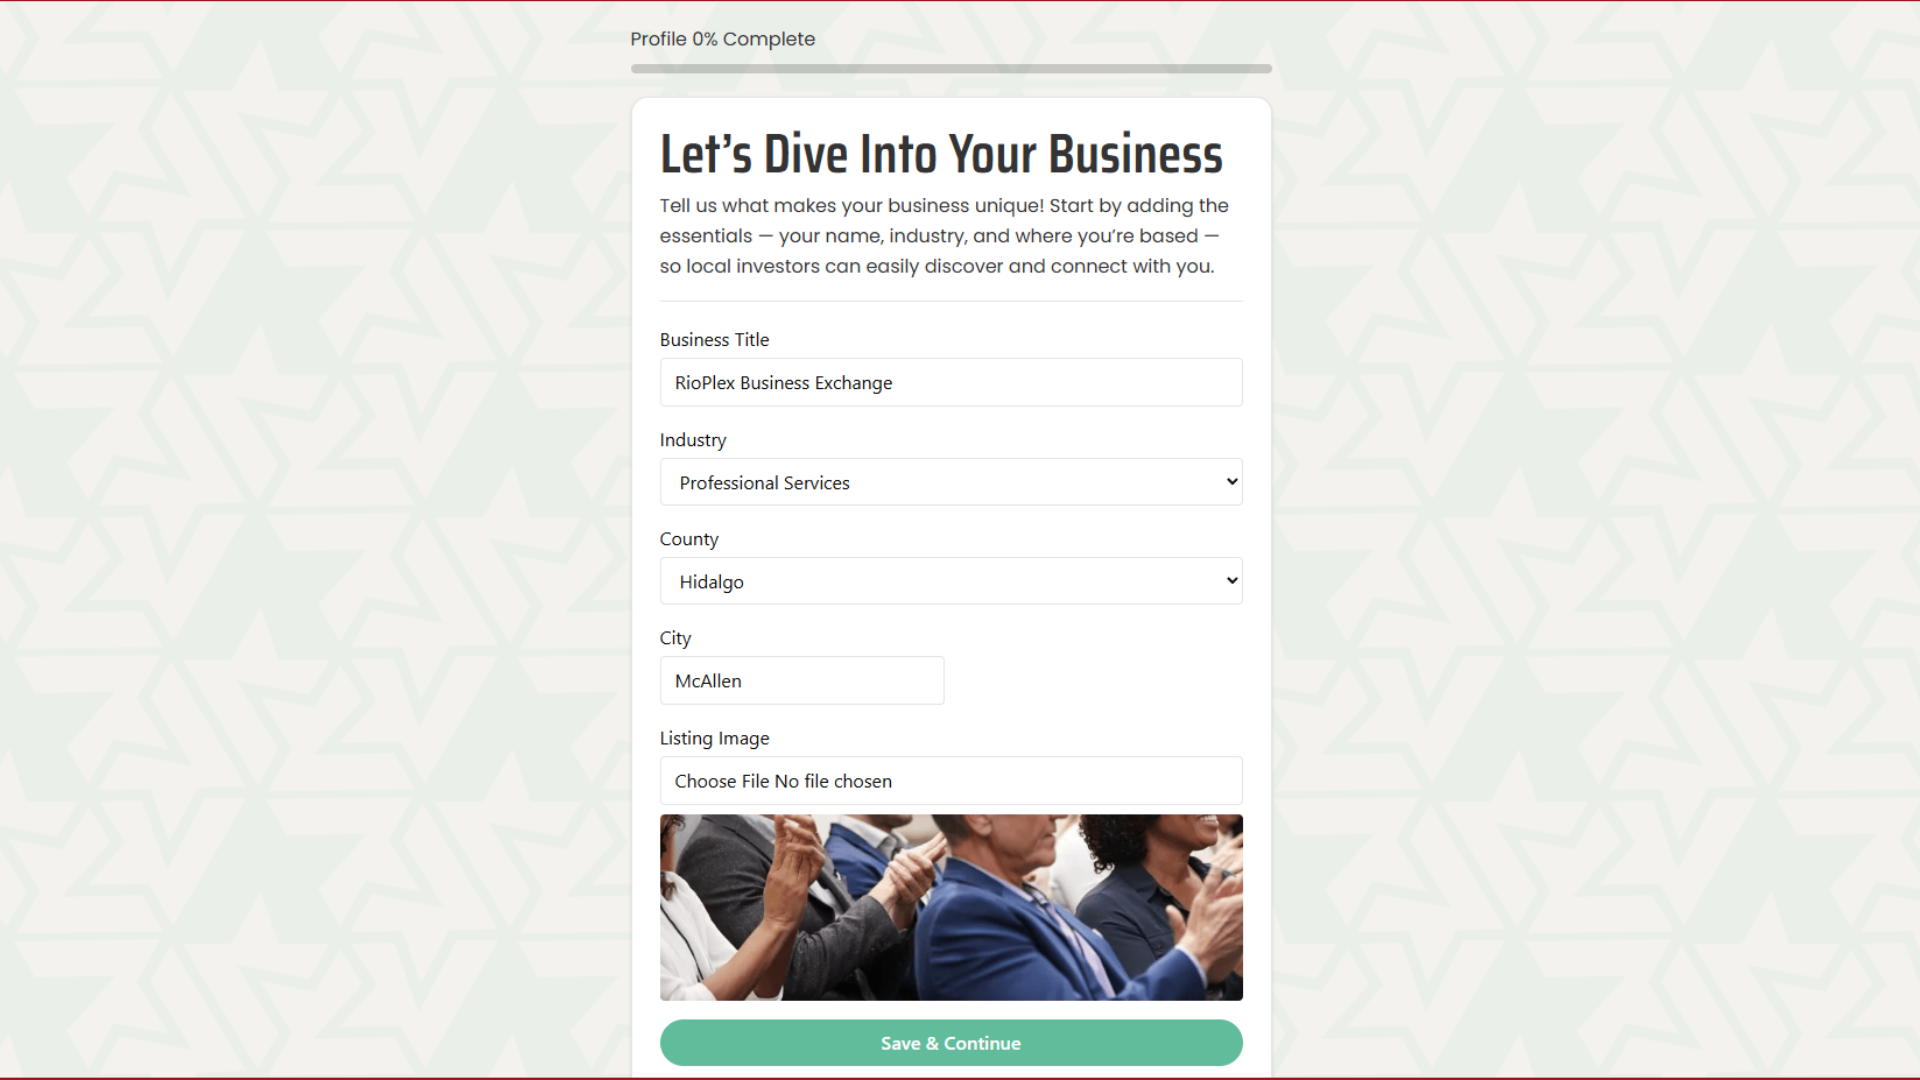
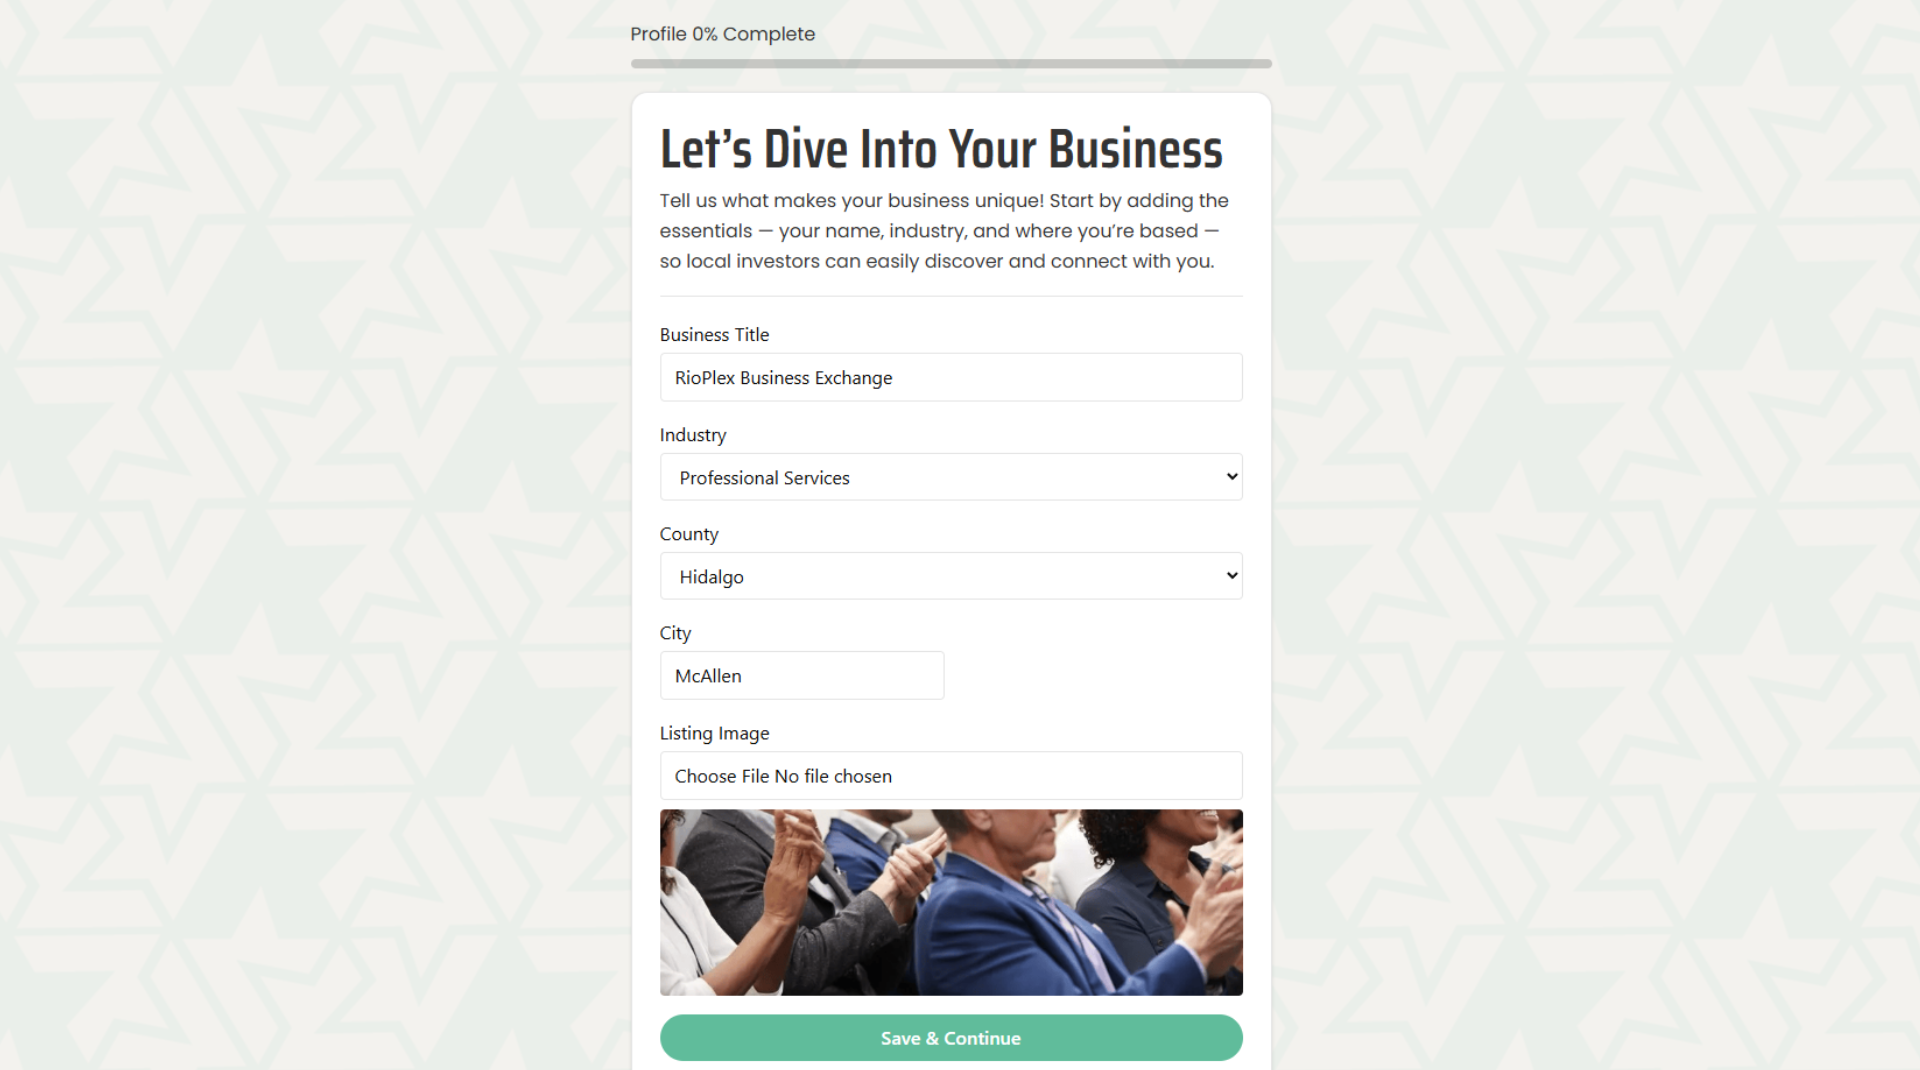
syled ad page

diff --git a/src/components/ui/carouselbusiness.tsx b/src/components/ui/carouselbusiness.tsx
@@ -6,19 +6,33 @@ import "swiper/css";
 import "swiper/css/pagination";
 
 type Slide = {
-  link: string,
-  num: number,
-}
+  link: string;
+  num: number;
+};
 
 type CarouselBusinessProps = {
   variant?: "default" | "landing";
-}
+};
 
-export default function CarouselBusiness({variant = "default"}: CarouselBusinessProps) {
-  const slides: Slide[] = [{ link: "step1-RPBX", num: 1 }, { link: "step2-business", num: 2 }, { link: "step3-business", num: 3 }];
-  const landingSlides: Slide[] = [{ link: "step1-business-landing", num: 1}, { link: "step2-business", num: 2 }, { link: "step3-business-landing", num: 3}];
+export default function CarouselBusiness({
+  variant = "default",
+}: CarouselBusinessProps) {
+  const slides: Slide[] = [
+    { link: "step1-RPBX", num: 1 },
+    { link: "step2-business", num: 2 },
+    { link: "step3-business", num: 3 },
+  ];
+
+  const landingSlides: Slide[] = [
+    { link: "step1-business-landing", num: 1 },
+    { link: "step2-business", num: 2 },
+    { link: "step3-business-landing", num: 3 },
+  ];
 
   const activeSlides = variant === "landing" ? landingSlides : slides;
+
+  const minHeightClass =
+    variant === "landing" ? "min-h-[250px] md:min-h-[500px] lg:min-h-[325px]" : "min-h-[250px] md:min-h-[500px] lg:min-h-[400px]";
 
   return (
     <Swiper
@@ -28,7 +42,7 @@ export default function CarouselBusiness({variant = "default"}: CarouselBusiness
       pagination={{ clickable: true, dynamicBullets: true }}
       autoplay={{ delay: 5000 }}
       loop={false}
-      className="w-full min-h-[400px]"
+      className={`w-full ${minHeightClass}`}
     >
       {activeSlides.map((slide, i) => (
         <SwiperSlide key={i}>
@@ -36,7 +50,7 @@ export default function CarouselBusiness({variant = "default"}: CarouselBusiness
             style={{
               backgroundImage: `url(/images/about-sliders/${slide.link}.png)`,
             }}
-            className="bg-cover bg-center rounded-lg min-h-[400px] flex justify-end items-end p-3"
+            className={`bg-cover bg-center rounded-lg ${minHeightClass} flex justify-end items-end p-3`}
           >
             <div className="flex items-center justify-center w-12 h-12 bg-[#61BD9C] rounded-full">
               <h4 className="text-white">{slide.num}</h4>

diff --git a/src/app/activate/page.tsx b/src/app/activate/page.tsx
@@ -207,9 +207,9 @@ export default async function Activate() {
               </div>
             </div>
 
-            <div className="flex flex-col items-center text-center w-full lg:w-[560px]">
+            <div className="flex flex-col items-center text-center w-full lg:w-1/2">
               {/* Frosted/glass frame just around the slider */}
-              <div className="relative w-full rounded-3xl border border-white/10 bg-black/40 backdrop-blur-sm p-4 lg:p-6 shadow-2xl">
+              <div className="relative w-full rounded-3xl border border-white/10 bg-black/40 backdrop-blur-sm p-4 lg:p-5 shadow-2xl">
                 {/* subtle glow ring */}
                 <div className="pointer-events-none absolute -inset-1 rounded-3xl bg-[#60BC9B]/20 blur opacity-40" />
                 <div className="relative rounded-2xl overflow-hidden">

diff --git a/src/components/ui/carouselinvestor.tsx b/src/components/ui/carouselinvestor.tsx
@@ -16,7 +16,7 @@ export default function CarouselInvestor() {
       pagination={{ clickable: true, dynamicBullets: true }}
       autoplay={{ delay: 5000 }}
       loop={false}
-      className="w-full min-h-[400px]"
+      className="w-full min-h-[250px] md:min-h-[500px] lg:min-h-[400px]"
     >
       {slides.map((slide, i) => (
         <SwiperSlide key={i}>
